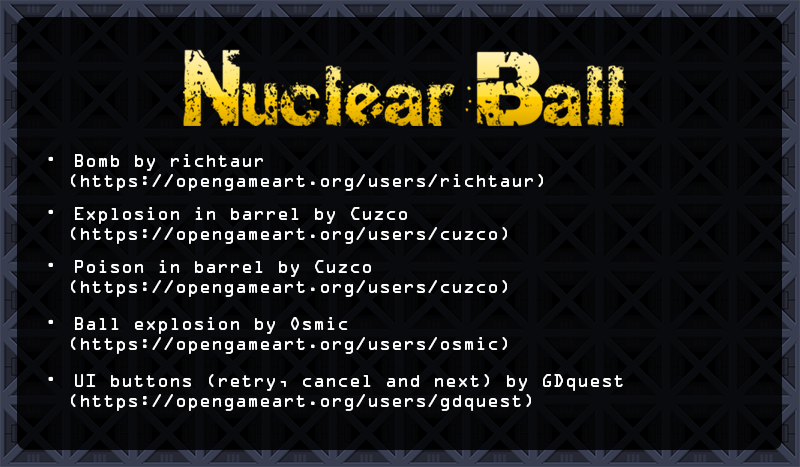
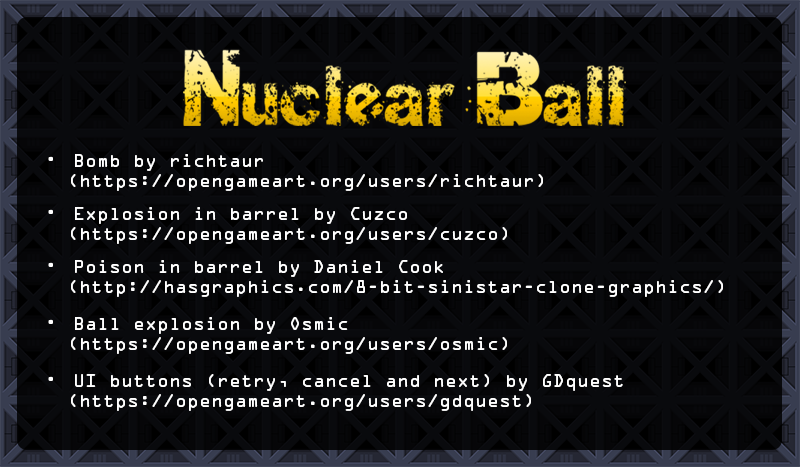
Cambio poison y creditos por copyright

Changed region(s): [[0.1562, 0.5396, 0.9062, 0.6296]]

diff --git a/NuclearBall/NuclearBall.js b/NuclearBall/NuclearBall.js
@@ -438,7 +438,7 @@ window.addEventListener("load",function() {
     });
 
     Q.animations("poison anim", {
-                    "explota":{frames: [9,10,11,12,13,14, 15], rate: 1/3, loop: false, trigger: "fin"}
+                    "explota":{frames: [1,2,3,4,5,6,7], rate: 1/5, loop: false, trigger: "fin"}
     });
 
     Q.Sprite.extend("Explosion",{
@@ -458,9 +458,9 @@ window.addEventListener("load",function() {
             if(Q.state.get("level") > 5){
                 this.p.sprite = "poison anim";
                 this.p.sheet = "poison";
-                this.p.scale = 3;
-                this.p.x = this.p.x - 140;
-                this.p.y = this.p.y - 65;
+                this.p.scale = 7;
+                this.p.x = this.p.x + 35;
+                this.p.y = this.p.y + 90;
                 Q.audio.play("poison.mp3");
             } else {
                 Q.audio.play("explosion.mp3");
